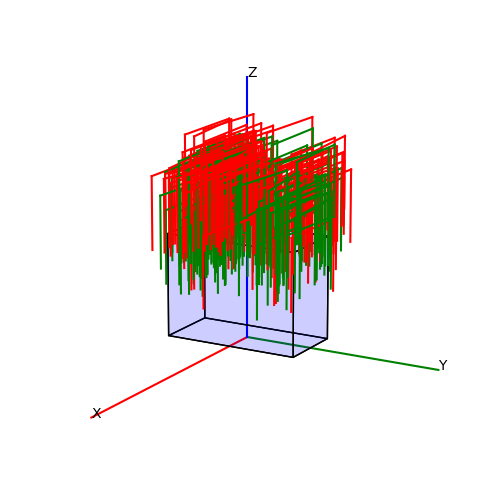
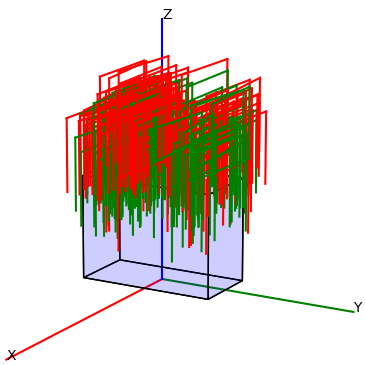
Project report: added more visualisations to section 4

diff --git a/docs/Project Report/fyp_project_report.tex b/docs/Project Report/fyp_project_report.tex
@@ -17,9 +17,11 @@
 % Links
 \usepackage{hyperref}
 
-% Positioning figures
+% Figures
 \usepackage{float}
 \usepackage{subfig}
+\usepackage{caption}
+\captionsetup[figure]{font=small,labelfont=Small}
 
 % Equations% Equations & Theorems
 \usepackage{amssymb}
@@ -413,9 +415,11 @@ Before we train our baseline model, we are interested if a clear decision bounda
 \noindent Using this information, we annotate 20 random hand poses from our dataset in a 3-dimensional plot. Each 6D hand pose is represented using a skeleton 2-finger model, where green and red poses denote successful and unsuccessful grasps respectively:
 \begin{figure}[H]%
     \centering
-    \subfloat[\centering Orientation 1]{{\includegraphics[width=6.5cm]{docs/Project Report/Media/4_3_2_all_ee_pose_visualise.png} }}%
+    \subfloat[\centering Box without poses]{{\includegraphics[width=0.29\textwidth]{docs/Project Report/Media/4_3_2_box_3d_plot.png} }}%
     \qquad
-    \subfloat[\centering Orientation 2]{{\includegraphics[width=6.5cm]{docs/Project Report/Media/4_3_2_all_ee_pose_visualise_angle2.png} }}%
+    \subfloat[\centering Orientation 1]{{\includegraphics[width=0.29\textwidth]{docs/Project Report/Media/4_3_2_all_ee_pose_visualise.png} }}%
+    \qquad
+    \subfloat[\centering Orientation 2]{{\includegraphics[width=0.29\textwidth]{docs/Project Report/Media/4_3_2_all_ee_pose_visualise2.png} }}%
     \caption{Visualisation of 200 random end effector poses}%
     \label{fig:4.4}%
 \end{figure}
